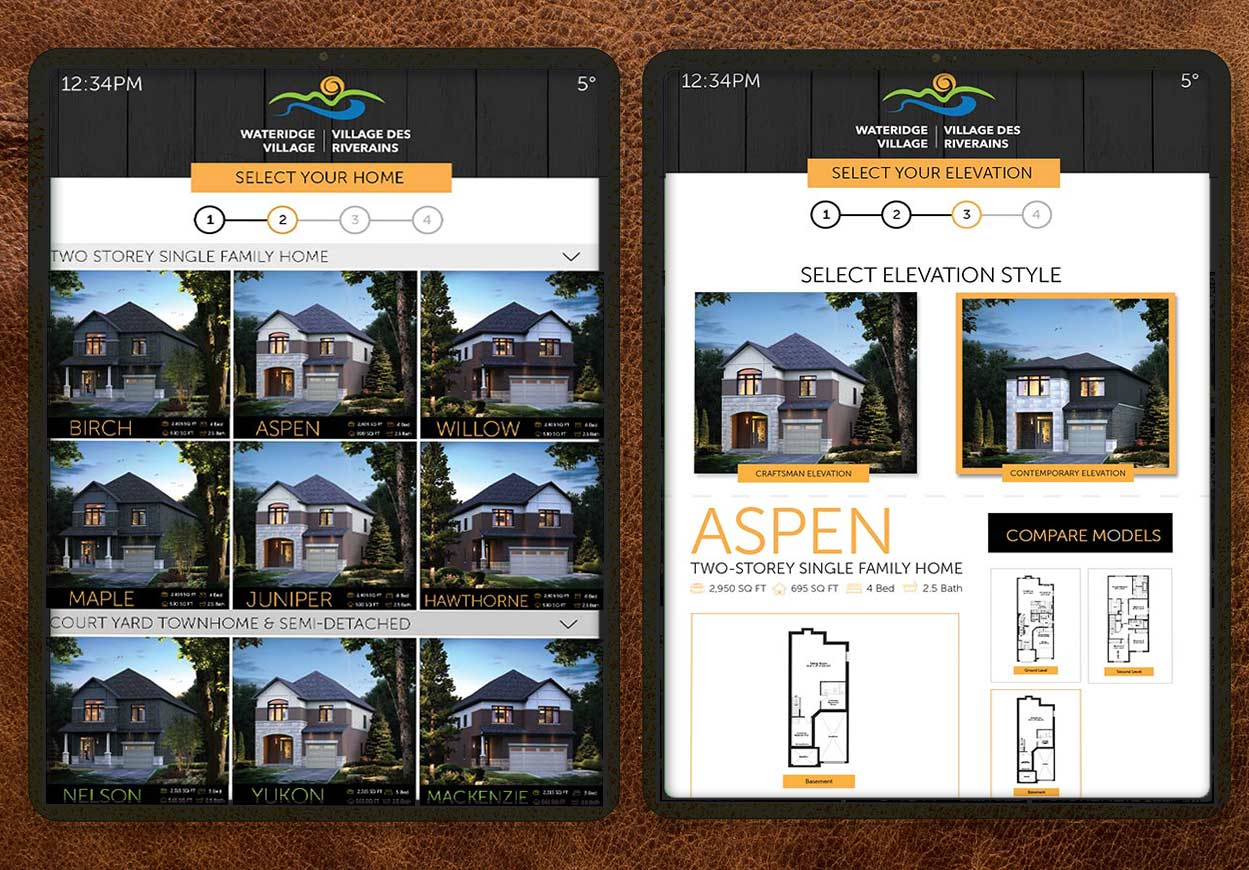
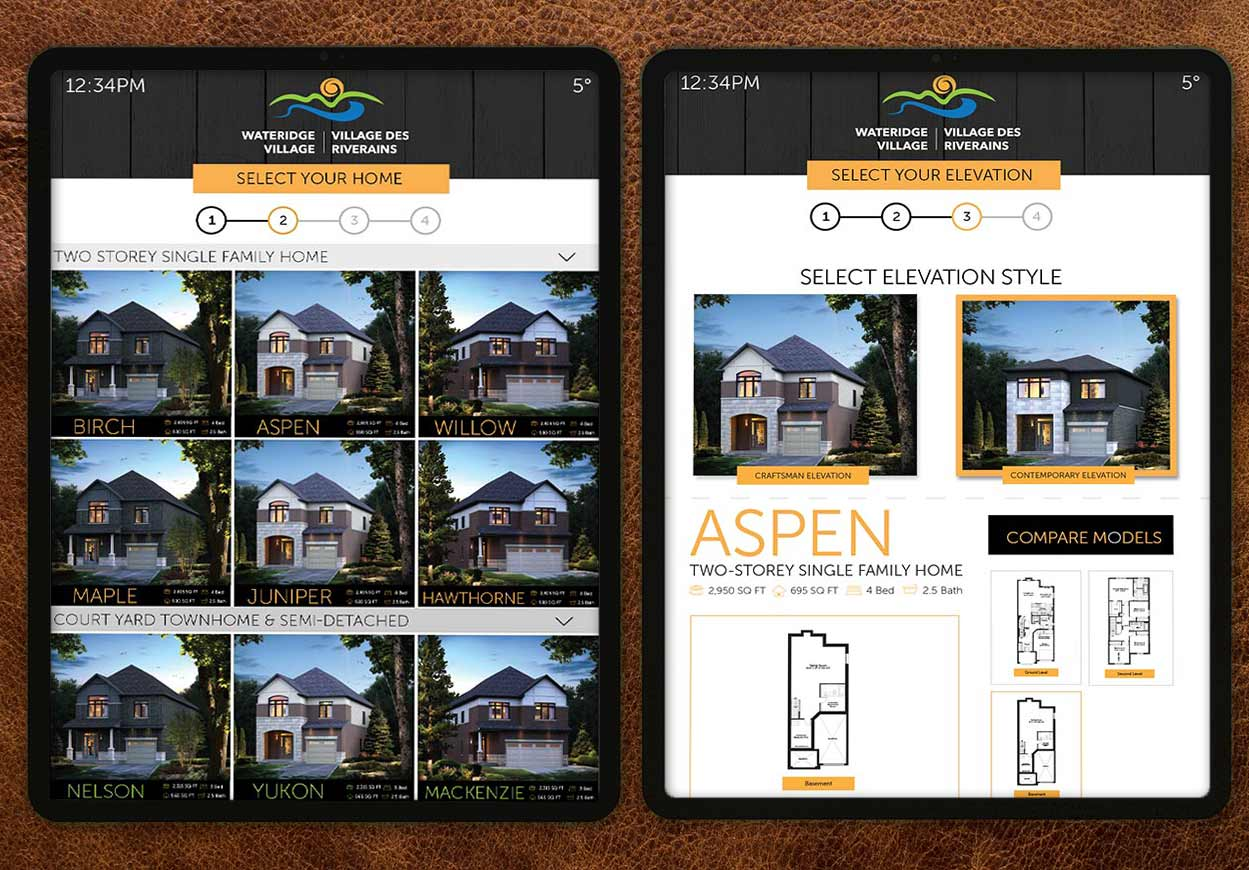
services fix
services img fix

Changed region(s): [[0.0, 0.031, 0.9992, 0.9621]]

diff --git a/index.html b/index.html
@@ -27,14 +27,16 @@ titleAfter: Where Light Waves
 
           <div class="hero-text">
 
-              <h2 class="">Media Production for SME's and Emerging Talents by Real Creatives</h2>
+              <h2 class="">Elevate Your SME, Talent and Event Brands with Tailored Media Production.</h2>
 
               <div>
-                <p class="title-tag">Focus on core business activities, we'll focus on your creative tasks.
+                <p class="title-tag">Designs by Real Creatives.
                 </p>
-                <p class="title-tag-p">+ Strategize, Create & Produce Media<span style="color: #f3a909">&nbsp;&nbsp;4x&nbsp;&nbsp;</span>faster!<br>
-                  + Vast Resources for quick Project Delivery<br>
-                  + Budget-Friendly Packages for Startups
+                <p class="title-tag-p">
+                  + Create designs for web & print, flyers, business stationery, cards etc.<br>
+                  + Produce engaging videos for advertising, music videos & interviews.<br>
+                  + Utilize vast resources for fast project turnaround.<br>
+                  + Access budget-friendly packages tailored for startups & Talents.
 
                 </p>
              </div>
@@ -91,11 +93,13 @@ titleAfter: Where Light Waves
       <div>
 
               <div class="unit unit-xs-1 unit-s-1 unit-m-1 unit-l-1-2 unit-push-l-1-2">
-                  <p class="intro-text">
+                 <!-- <p class="intro-text">
                      At <span style="background-color: #e9982d">&nbsp;&nbsp;Piolabs Reel,&nbsp;&nbsp;</span>
                     we understand the unique challenges faced by Businesses and emerging talents in producing their own media.
                    We offer cost-effective media production services designed to deliver high-quality results, ensuring convenience and accessibility for all your creative needs.
-                  </p>
+                  </p>-->
+
+                  <p class="intro-text">At Piolabs Reel, we understand the unique challenges faced by businesses and emerging talents in producing their own media. We offer cost-effective media production services, including video production, graphic design, and web development, designed to deliver high-quality results while ensuring convenience and accessibility for all your creative needs.</p>
               </div>
 
 
@@ -174,7 +178,7 @@ titleAfter: Where Light Waves
               <li class="unit unit-xs-1 unit-s-1 unit-m-1-2 unit-l-1-4">
                 <figure class="service-box service-bg4">
                   <img loading="lazy" class="service-img" src="{{site.baseurl}}/images/web-dev.webp" alt="Digital experience logo">
-                  <figcaption class="service-cap">WEB DEVELOPMENT</figcaption>
+                  <figcaption class="service-cap">WEB DESIGN</figcaption>
                     <p class="service-text">Design | SEO | CMS</p>
                     <p class="service-para">+ UI / UX <br>+ Security <br>+ Search Engine Optimization
                     </p>
@@ -192,8 +196,10 @@ titleAfter: Where Light Waves
 
          <div class="unit unit-xs-1 unit-s-1 unit-m-1 unit-l-1-2 about-us">
                <p>
-                We are an amalgamation of <span style="background-color: #e9982d">&nbsp;&nbsp;experienced&nbsp;&nbsp;</span> artists from diverse fields, our creative firm offers tailored design, video and web development guidance to meet each client's needs. 
-               <br> We bring fresh, innovative ideas that align with current trends empowering our clients to stand out in their industry.
+                Our creative firm focuses on practical strategies to enhance brand visibility and impact.
+                We provide targeted graphic design, engaging video content, and effective marketing campaigns tailored to specific demographics.
+                 By utilizing analytics and feedback, we continually refine our approach to ensure measurable results.
+
                </p>
            </div>
 
@@ -213,20 +219,15 @@ titleAfter: Where Light Waves
 
           <div class="unit unit-xs-1 unit-s-1 unit-m-1 unit-l-1-2 unit-push-l-1-2 about-us">
             <p>
-            We are an amalgamation of <span style="background-color: #e9982d">&nbsp;&nbsp;experienced&nbsp;&nbsp;</span> artists from diverse fields, our creative firm offers tailored design, video and web development guidance to meet each client's needs. 
-            <br> We bring fresh, innovative ideas that align with current trends empowering our clients to stand out in their industry.
+              By collaborating closely with our clients, we ensure that every project reflects their unique vision and goals.
+               Our approach involves thorough research and brainstorming sessions to generate ideas that resonate with target audiences.
+               As a result, our clients see increased engagement and a stronger brand presence in their markets.
             </p>
         </div>
 
         <div class="unit unit-xs-1 unit-s-1 unit-m-1 unit-l-1-2 unit-pull-l-1-2 stat-img">
           <div class="stats-bg1">
-          <p >
-            +10,000 HRS OF MEDIA DESIGN EXPERIENCE 
-          
-          </p>
-          <p>
-            +1000s OF DESIGNS CREATED
-          </p>
+        
 
         </div>
         </div>
@@ -296,9 +297,8 @@ titleAfter: Where Light Waves
   <div class="unit unit-s-1 unit-m-1 unit-l-1-3 unit-pull-l-2-3 reel-boxport">
     <h4 class="reel-titleport"><span style="background-color: #000000">&nbsp;&nbsp;2025&nbsp;&nbsp;</span> PORTFOLIO</h4>
 
-    <p class="reel-textport"> we specialize in creating dynamic and engaging videos that help businesses & talents connect
-     with their audience on a deeper level. Our portfolio showcases the amazing results we've achieved for our
-     clients through our expertise in video production.</p>
+    <p class="reel-textport">We excel in creating visually striking designs that capture the essence of each brand. Our collection showcases a diverse range of projects, demonstrating our ability to merge creativity with strategic thinking.
+       Each piece reflects our commitment to innovation and attention to detail, helping clients make a lasting impression and connect authentically with their committed audience.</p>
           <div class="grid reel-stats">
 
           </div>
@@ -635,7 +635,7 @@ titleAfter: Where Light Waves
 
 
                   <div class="unit unit-xs-1 unit-s-1 unit-m-1 unit-l-1-2 para-contact">
-                      <p><span style="color: #000000"><b>Location:</b></span> Canada | Nigeria </p>
+                      <p><span style="color: #000000"><b>Location:</b></span> Online | Nigeria </p>
                       <p><span style="color: #000000"><b>Email:</b></span> info@piolabsreel.com</p>
                       <p><span style="color: #000000"><b>Open:</b></span> Online. Open All Week</p>
                           <ul class="socials">

diff --git a/_includes/css/main.css b/_includes/css/main.css
@@ -220,18 +220,18 @@ header.logo, header.logo {
 .hero-text {
   position: absolute;
   z-index: 11;
-  top: 177px;
+  top: 255px;
   background-color: rgba(0, 0, 0, 0.85);
   padding: 20px 0px;
   left: 50%;
   transform: translate(-50%, 0);
-  border-radius: 5px;
+  border-radius: 8px;
 
 }
 
 .hero-text h2 {
   color: white;
-  width: 410px;
+  width: 465px;
   font-size: 2em;
   font-family: 'Rubik', serif;
   font-weight: 800;
@@ -239,7 +239,7 @@ header.logo, header.logo {
   margin: 0;
   text-shadow: 2px 2px black;
   text-align: left;
-  padding-left: 25px;
+  padding-left: 15px;
 }
 
 .hero-text h3 {
@@ -258,20 +258,18 @@ header.logo, header.logo {
   line-height: 1em;
   color: #e9982d;
   width: 410px;
-  padding: 0px 0px 0px 30px;
-
-
+  padding: 0px 0px 0px 15px;
 }
 
 
 .title-tag-p {
   font-family: 'Rubik', serif;
-  font-size: 16px;
+  font-size: 14px;
   font-weight: 300;
   line-height: 20px;
   color: #e9982d;
-  width: 410px;
-  padding: 3px 3px 10px 30px;
+  width: 470px;
+  padding: 3px 3px 10px 13px;
 
 }
 
@@ -291,7 +289,7 @@ header.logo, header.logo {
 
 .hero-btn {
   text-align: left;
-  padding: 0px 0px 20px 30px;
+  padding: 0px 0px 20px 15px;
 }
 
 .hero-btn-thnk {
@@ -346,10 +344,11 @@ margin: 20px 20px;
 
 .intro-text {
   text-align: left;
-  padding: 20px 20px 20px;
+  padding: 0px 20px 20px;
   font-size: 1.9em;
   font-family: 'DM Serif Text', serif;
   background-color: white;
+  margin: 0;
 }
 
 .clients-bg {
@@ -381,7 +380,7 @@ font-size: 1em;
   padding-left: 20px;
   margin-bottom: 2px;
   font-size: 1.9em;
-  margin-top: 10px;
+  margin-top: 0px;
   letter-spacing: 3px;
 
 }
@@ -958,27 +957,23 @@ text-align: center;
   
 }
 
+.stat-img img {
+
+  border-radius: 0px;
+  background-position: center center;
+  background-size: 100% 100%;
+}
 
 
 .stats-bg1 {
-  background-color: #ee7752;
-  border-radius: 0px;
-  background: url("../images/packages/stats-image.webp");
-  background-position: center center;
   color: rgb(77 52 6);
-  background-size: cover;
+  background: url("../images/packages/proof-image.jpg");
   padding: 40px;
   margin: auto 20px;
   font-weight: 900;
+  background-size: 100% 100%;
+  min-height: 300px;
 }
-
-
-.stat-img {
-  text-align: center;
-    font-size: 1.5em;
-    font-family: 'Rubik', sans-serif;
-}
-
 
 .portfolio {
   background-color: #131313;
@@ -1318,25 +1313,7 @@ text-align: center;
 }
 
 
-.packages-getting-started {
-  color: #d6d5d4;
-  background-color: $yellow;
-  background-image: url("../images/packages/sme-business-small.jpg");
-  height: 600px;
-  background-position: center center;
-  background-size: 170vw auto;
-  background-repeat: no-repeat;
-}
 
-.packages-upcoming {
-  color: #d6d5d4;
-  background-color: $yellow;
-  background-image: url("../images/packages/upandcoming-small.jpg");
-  height: 600px;
-  background-position: center center;
-  background-size: 170vw auto;
-  background-repeat: no-repeat;
-}
 
 
 .packages-editing {

diff --git a/_includes/css/media-queries.css b/_includes/css/media-queries.css
@@ -303,6 +303,10 @@ padding: 3em 0;
 
 }
 
+.hero-btn {
+  padding-left: 30px;
+}
+
 .service-section {
 
 }
@@ -618,24 +622,29 @@ text-align: center;
 /*MEDIUM SCREENS*/
 @media (min-width: 56em) {
 
+
+
+  .intro-text {
+    
+    padding: 0px 20px 20px;
+    margin-top: 20px;
+  }
+
   .thank-you {
    
     margin: 169px auto 110px;
   }
 
-
-
-
   .hero-text {
-    top: 150px;
-    padding: 20px 0px;
-    left: 360px;
+    top: 190px;
+    padding: 20px 0px 10px;
+    left: 415px;
     transform: translate(-50%, 0);
 }
 
 .hero-text h2 {
   color: white;
-  width: 490px;
+  width: 580px;
   font-size: 2.4em;
   font-family: 'Rubik', serif;
   font-weight: 800;
@@ -649,12 +658,15 @@ text-align: center;
 .title-tag {
   font-size: 18px;
   width: 460px;
+  padding-left: 30px;
+  
 }
 
 .title-tag-p {
-  font-size: 18px;
-  width: 460px;
+  font-size: 16px;
+  width: 570px;
   line-height: 24px;
+  padding-left: 28px;
 }   
 
 
